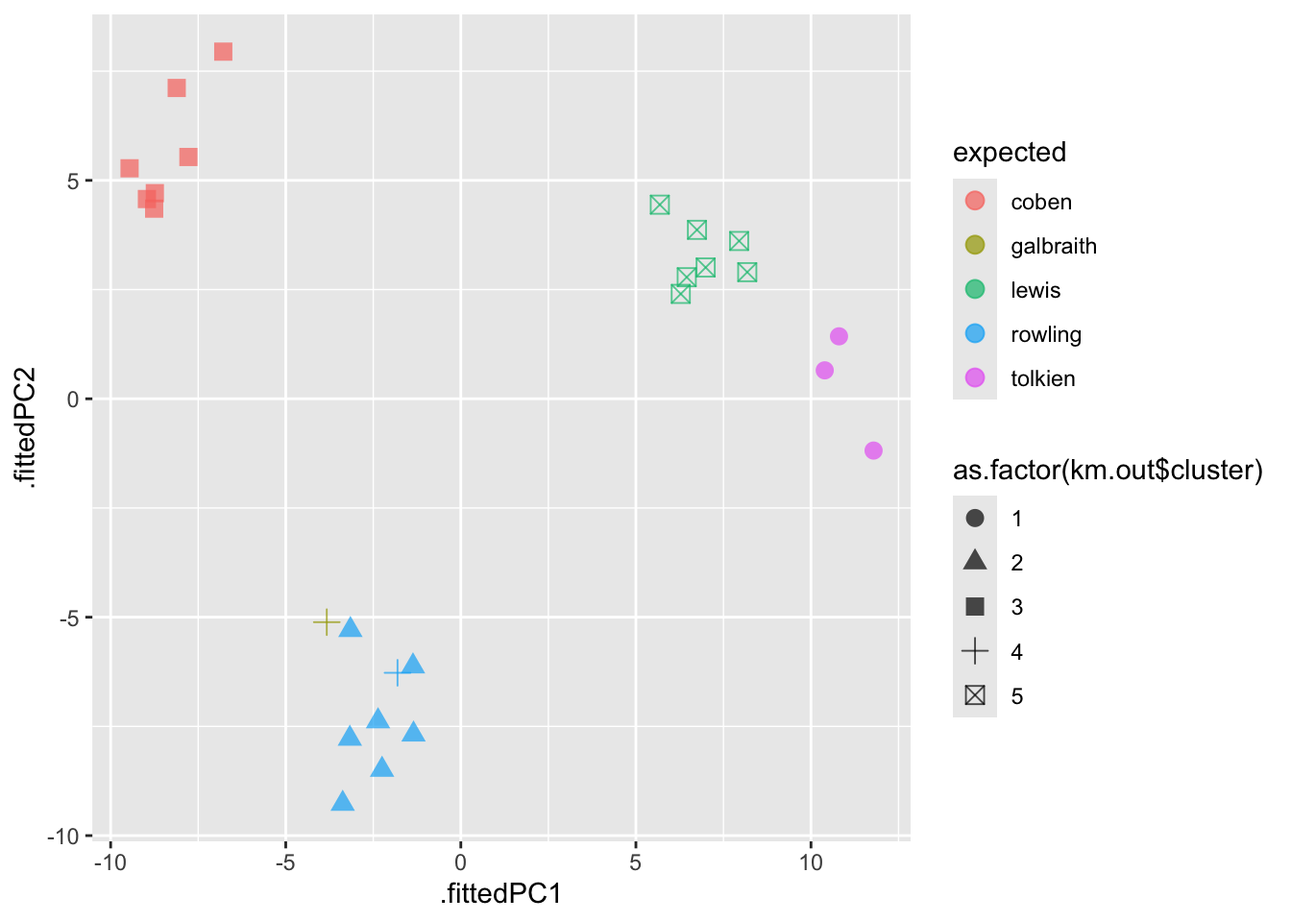
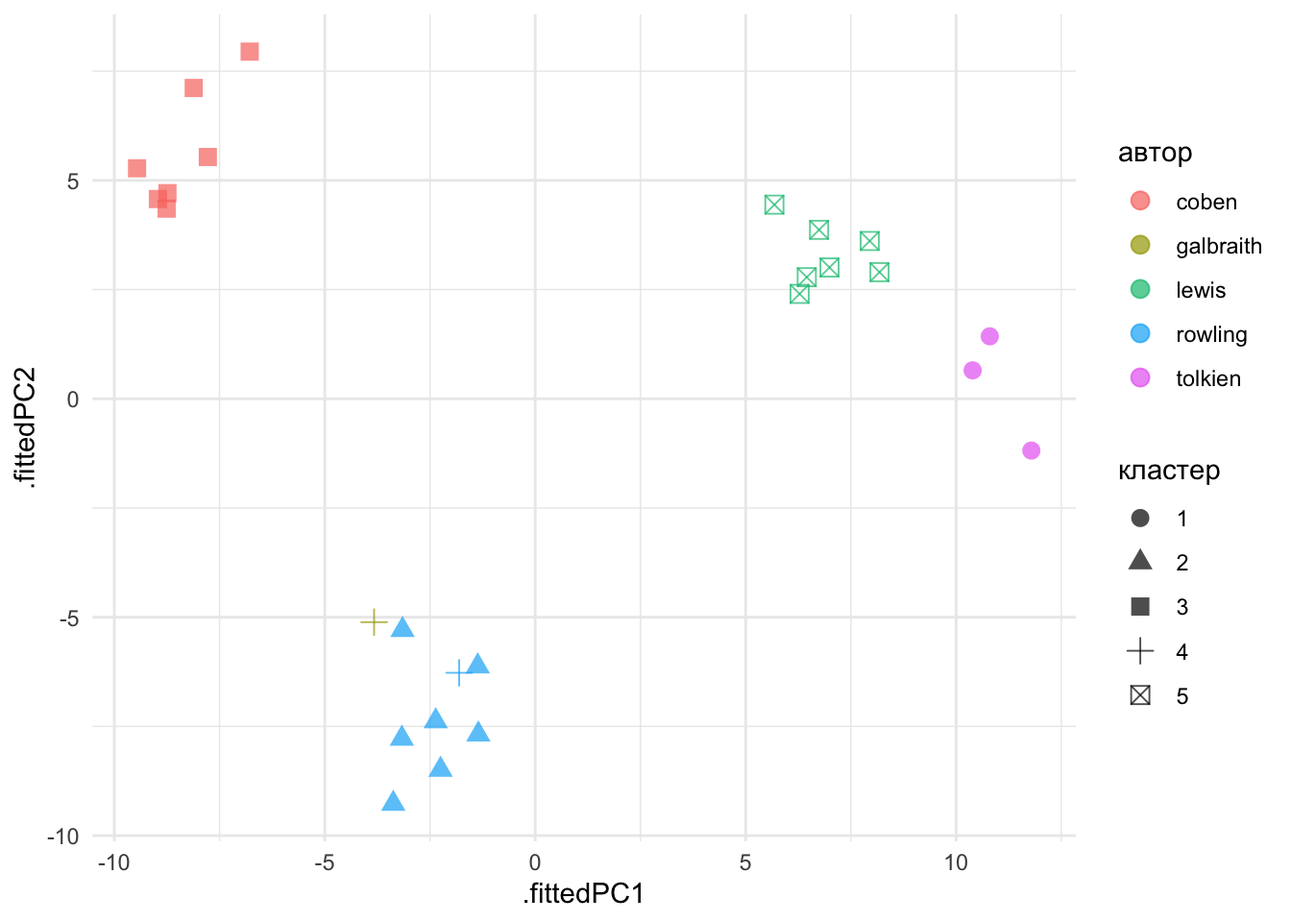
cluster.qmd update (factomineR)

diff --git a/docs/cluster.html b/docs/cluster.html
@@ -230,7 +230,7 @@ window.Quarto = {
         <li class="sidebar-item">
   <div class="sidebar-item-container"> 
   <a href="./share.html" class="sidebar-item-text sidebar-link">
- <span class="menu-text"><span class="chapter-number">6</span>&nbsp; <span class="chapter-title">Публикация</span></span></a>
+ <span class="menu-text"><span class="chapter-number">6</span>&nbsp; <span class="chapter-title">Публикационная система Quarto</span></span></a>
   </div>
 </li>
         <li class="sidebar-item">
@@ -634,7 +634,7 @@ tolkien_lord3        11.787300 -1.185577</code></pre>
 </section>
 <section id="pca-и-кластеры-k-means" class="level3" data-number="15.3.3">
 <h3 data-number="15.3.3" class="anchored" data-anchor-id="pca-и-кластеры-k-means"><span class="header-section-number">15.3.3</span> PCA и кластеры K-means</h3>
-<p>Функция <code>augment()</code> из пакета <code>broom</code> позволяет соединить результат кластеризации (в данном случае – по методу k-средних) с исходными данными.</p>
+<p>Функция <code>augment()</code> из пакета <code>broom</code> позволяет соединить результат анализа с исходными данными.</p>
 <div class="cell">
 <div class="sourceCode cell-code" id="cb19"><pre class="sourceCode r code-with-copy"><code class="sourceCode r"><span id="cb19-1"><a href="#cb19-1" aria-hidden="true" tabindex="-1"></a><span class="fu">library</span>(broom)</span>
 <span id="cb19-2"><a href="#cb19-2" aria-hidden="true" tabindex="-1"></a></span>
@@ -644,7 +644,10 @@ tolkien_lord3        11.787300 -1.185577</code></pre>
 <span id="cb19-6"><a href="#cb19-6" aria-hidden="true" tabindex="-1"></a>  <span class="fu">ggplot</span>(<span class="fu">aes</span>(.fittedPC1, .fittedPC2,</span>
 <span id="cb19-7"><a href="#cb19-7" aria-hidden="true" tabindex="-1"></a>             <span class="at">color =</span> expected, </span>
 <span id="cb19-8"><a href="#cb19-8" aria-hidden="true" tabindex="-1"></a>             <span class="at">shape =</span> <span class="fu">as.factor</span>(km.out<span class="sc">$</span>cluster))) <span class="sc">+</span></span>
-<span id="cb19-9"><a href="#cb19-9" aria-hidden="true" tabindex="-1"></a>  <span class="fu">geom_point</span>(<span class="at">size =</span> <span class="dv">3</span>, <span class="at">alpha =</span> <span class="fl">0.7</span>)</span></code><button title="Скопировать текст" class="code-copy-button"><i class="bi"></i></button></pre></div>
+<span id="cb19-9"><a href="#cb19-9" aria-hidden="true" tabindex="-1"></a>  <span class="fu">geom_point</span>(<span class="at">size =</span> <span class="dv">3</span>, <span class="at">alpha =</span> <span class="fl">0.7</span>) <span class="sc">+</span></span>
+<span id="cb19-10"><a href="#cb19-10" aria-hidden="true" tabindex="-1"></a>  <span class="fu">scale_color_discrete</span>(<span class="at">name =</span> <span class="st">"автор"</span>) <span class="sc">+</span></span>
+<span id="cb19-11"><a href="#cb19-11" aria-hidden="true" tabindex="-1"></a>  <span class="fu">scale_shape_discrete</span>(<span class="at">name =</span> <span class="st">"кластер"</span>) <span class="sc">+</span></span>
+<span id="cb19-12"><a href="#cb19-12" aria-hidden="true" tabindex="-1"></a>  <span class="fu">theme_minimal</span>()</span></code><button title="Скопировать текст" class="code-copy-button"><i class="bi"></i></button></pre></div>
 <div class="cell-output-display">
 <div>
 <figure class="figure">
@@ -653,38 +656,18 @@ tolkien_lord3        11.787300 -1.185577</code></pre>
 </div>
 </div>
 </div>
-<p>В таком же “опрятном” виде можем представить и нагрузки компонент. Для наглядности – только первые 30 слов.</p>
+<p>Еще один способ представить наблюдения.</p>
 <div class="cell">
-<div class="sourceCode cell-code" id="cb20"><pre class="sourceCode r code-with-copy"><code class="sourceCode r"><span id="cb20-1"><a href="#cb20-1" aria-hidden="true" tabindex="-1"></a><span class="fu">library</span>(cowplot)</span></code><button title="Скопировать текст" class="code-copy-button"><i class="bi"></i></button></pre></div>
-<div class="cell-output cell-output-stderr">
-<pre><code>
-Attaching package: 'cowplot'</code></pre>
-</div>
-<div class="cell-output cell-output-stderr">
-<pre><code>The following object is masked from 'package:lubridate':
-
-    stamp</code></pre>
-</div>
-<div class="sourceCode cell-code" id="cb23"><pre class="sourceCode r code-with-copy"><code class="sourceCode r"><span id="cb23-1"><a href="#cb23-1" aria-hidden="true" tabindex="-1"></a><span class="fu">library</span>(grid)</span>
-<span id="cb23-2"><a href="#cb23-2" aria-hidden="true" tabindex="-1"></a></span>
-<span id="cb23-3"><a href="#cb23-3" aria-hidden="true" tabindex="-1"></a><span class="co"># как будет выглядеть стрелка</span></span>
-<span id="cb23-4"><a href="#cb23-4" aria-hidden="true" tabindex="-1"></a>arrow_style <span class="ot">&lt;-</span> <span class="fu">arrow</span>(</span>
-<span id="cb23-5"><a href="#cb23-5" aria-hidden="true" tabindex="-1"></a>  <span class="at">angle =</span> <span class="dv">20</span>, <span class="at">ends =</span> <span class="st">"first"</span>, <span class="at">type =</span> <span class="st">"closed"</span>, <span class="at">length =</span> grid<span class="sc">::</span><span class="fu">unit</span>(<span class="dv">8</span>, <span class="st">"pt"</span>)</span>
-<span id="cb23-6"><a href="#cb23-6" aria-hidden="true" tabindex="-1"></a>)</span>
-<span id="cb23-7"><a href="#cb23-7" aria-hidden="true" tabindex="-1"></a></span>
-<span id="cb23-8"><a href="#cb23-8" aria-hidden="true" tabindex="-1"></a>pca_fit  <span class="sc">|&gt;</span> </span>
-<span id="cb23-9"><a href="#cb23-9" aria-hidden="true" tabindex="-1"></a>  <span class="fu">tidy</span>(<span class="at">matrix =</span> <span class="st">"rotation"</span>)  <span class="sc">|&gt;</span> </span>
-<span id="cb23-10"><a href="#cb23-10" aria-hidden="true" tabindex="-1"></a>  <span class="fu">pivot_wider</span>(<span class="at">names_from =</span> <span class="st">"PC"</span>, <span class="at">names_prefix =</span> <span class="st">"PC"</span>, <span class="at">values_from =</span> <span class="st">"value"</span>)  <span class="sc">|&gt;</span> </span>
-<span id="cb23-11"><a href="#cb23-11" aria-hidden="true" tabindex="-1"></a>  <span class="fu">filter</span>(<span class="fu">row_number</span>() <span class="sc">%in%</span> <span class="fu">c</span>(<span class="dv">1</span><span class="sc">:</span><span class="dv">30</span>)) <span class="sc">|&gt;</span> </span>
-<span id="cb23-12"><a href="#cb23-12" aria-hidden="true" tabindex="-1"></a>  <span class="fu">ggplot</span>(<span class="fu">aes</span>(PC1, PC2)) <span class="sc">+</span></span>
-<span id="cb23-13"><a href="#cb23-13" aria-hidden="true" tabindex="-1"></a>  <span class="fu">geom_segment</span>(<span class="at">xend =</span> <span class="dv">0</span>, <span class="at">yend =</span> <span class="dv">0</span>, <span class="at">arrow =</span> arrow_style, <span class="at">color =</span> <span class="st">"olivedrab"</span>, <span class="at">alpha =</span> <span class="fl">0.5</span>) <span class="sc">+</span></span>
-<span id="cb23-14"><a href="#cb23-14" aria-hidden="true" tabindex="-1"></a>  <span class="fu">geom_text</span>(</span>
-<span id="cb23-15"><a href="#cb23-15" aria-hidden="true" tabindex="-1"></a>    <span class="fu">aes</span>(<span class="at">label =</span> column),</span>
-<span id="cb23-16"><a href="#cb23-16" aria-hidden="true" tabindex="-1"></a>    <span class="at">hjust =</span> <span class="dv">1</span>, <span class="at">nudge_x =</span> <span class="sc">-</span><span class="fl">0.02</span>, </span>
-<span id="cb23-17"><a href="#cb23-17" aria-hidden="true" tabindex="-1"></a>    <span class="at">color =</span> <span class="st">"tomato"</span></span>
-<span id="cb23-18"><a href="#cb23-18" aria-hidden="true" tabindex="-1"></a>  ) <span class="sc">+</span> </span>
-<span id="cb23-19"><a href="#cb23-19" aria-hidden="true" tabindex="-1"></a>  <span class="fu">theme_minimal_grid</span>(<span class="dv">10</span>) <span class="sc">+</span></span>
-<span id="cb23-20"><a href="#cb23-20" aria-hidden="true" tabindex="-1"></a>  <span class="fu">coord_fixed</span>()</span></code><button title="Скопировать текст" class="code-copy-button"><i class="bi"></i></button></pre></div>
+<div class="sourceCode cell-code" id="cb20"><pre class="sourceCode r code-with-copy"><code class="sourceCode r"><span id="cb20-1"><a href="#cb20-1" aria-hidden="true" tabindex="-1"></a><span class="co"># install.packages("FactoMineR")</span></span>
+<span id="cb20-2"><a href="#cb20-2" aria-hidden="true" tabindex="-1"></a><span class="co"># library(devtools)</span></span>
+<span id="cb20-3"><a href="#cb20-3" aria-hidden="true" tabindex="-1"></a><span class="co"># install_github("kassambara/factoextra")</span></span>
+<span id="cb20-4"><a href="#cb20-4" aria-hidden="true" tabindex="-1"></a><span class="fu">library</span>(FactoMineR)</span>
+<span id="cb20-5"><a href="#cb20-5" aria-hidden="true" tabindex="-1"></a><span class="fu">library</span>(factoextra)</span>
+<span id="cb20-6"><a href="#cb20-6" aria-hidden="true" tabindex="-1"></a></span>
+<span id="cb20-7"><a href="#cb20-7" aria-hidden="true" tabindex="-1"></a><span class="fu">fviz_pca_ind</span>(pca_fit, <span class="at">geom =</span> <span class="fu">c</span>(<span class="st">"text"</span>),</span>
+<span id="cb20-8"><a href="#cb20-8" aria-hidden="true" tabindex="-1"></a>             <span class="at">habillage =</span> <span class="fu">as.factor</span>(km.out<span class="sc">$</span>cluster),</span>
+<span id="cb20-9"><a href="#cb20-9" aria-hidden="true" tabindex="-1"></a>             <span class="at">addEllipses =</span> <span class="cn">TRUE</span>) <span class="sc">+</span></span>
+<span id="cb20-10"><a href="#cb20-10" aria-hidden="true" tabindex="-1"></a>  <span class="fu">theme</span>(<span class="at">legend.position =</span> <span class="st">"none"</span>)</span></code><button title="Скопировать текст" class="code-copy-button"><i class="bi"></i></button></pre></div>
 <div class="cell-output-display">
 <div>
 <figure class="figure">
@@ -693,15 +676,49 @@ Attaching package: 'cowplot'</code></pre>
 </div>
 </div>
 </div>
-<p>При интерпретации этого графика следует учитывать, что положительно коррелированные переменные находятся рядом, а отрицательно коррелированные переменные находятся в противоположных квадрантах. Например, для первого измерения “him” и “as” коррелированы отрицательно. Это можно проверить, достав матрицу c нагрузками компонент = из объекта <code>pca_fit</code> (в качестве координат используются коэффициенты корреляции между переменными и компонентами):</p>
+<p>Аналогично можно представить и нагрузки компонент.</p>
 <div class="cell">
-<div class="sourceCode cell-code" id="cb24"><pre class="sourceCode r code-with-copy"><code class="sourceCode r"><span id="cb24-1"><a href="#cb24-1" aria-hidden="true" tabindex="-1"></a>pca_fit<span class="sc">$</span>rotation[<span class="fu">c</span>(<span class="st">"him"</span>, <span class="st">"as"</span>),<span class="dv">1</span><span class="sc">:</span><span class="dv">2</span>]</span></code><button title="Скопировать текст" class="code-copy-button"><i class="bi"></i></button></pre></div>
+<div class="sourceCode cell-code" id="cb21"><pre class="sourceCode r code-with-copy"><code class="sourceCode r"><span id="cb21-1"><a href="#cb21-1" aria-hidden="true" tabindex="-1"></a><span class="fu">fviz_pca_var</span>(pca_fit, <span class="at">col.var=</span><span class="st">"contrib"</span>,</span>
+<span id="cb21-2"><a href="#cb21-2" aria-hidden="true" tabindex="-1"></a>             <span class="at">select.var =</span> <span class="fu">list</span>(<span class="at">contrib =</span> <span class="dv">40</span>),</span>
+<span id="cb21-3"><a href="#cb21-3" aria-hidden="true" tabindex="-1"></a>             <span class="at">repel =</span> <span class="cn">TRUE</span>)<span class="sc">+</span></span>
+<span id="cb21-4"><a href="#cb21-4" aria-hidden="true" tabindex="-1"></a>  <span class="fu">theme_minimal</span>() <span class="sc">+</span></span>
+<span id="cb21-5"><a href="#cb21-5" aria-hidden="true" tabindex="-1"></a>  <span class="fu">theme</span>(<span class="at">legend.position =</span> <span class="st">"none"</span>)</span></code><button title="Скопировать текст" class="code-copy-button"><i class="bi"></i></button></pre></div>
+<div class="cell-output-display">
+<div>
+<figure class="figure">
+<p><img src="cluster_files/figure-html/unnamed-chunk-14-1.png" class="img-fluid figure-img" width="672"></p>
+</figure>
+</div>
+</div>
+</div>
+<p>При интерпретации этого графика следует учитывать, что положительно коррелированные переменные находятся рядом, а отрицательно коррелированные переменные находятся в противоположных квадрантах. Например, для первого измерения “his” и “as” коррелированы отрицательно. Это можно проверить, достав матрицу c нагрузками компонент из объекта <code>pca_fit</code> (в качестве координат используются коэффициенты корреляции между переменными и компонентами):</p>
+<div class="cell">
+<div class="sourceCode cell-code" id="cb22"><pre class="sourceCode r code-with-copy"><code class="sourceCode r"><span id="cb22-1"><a href="#cb22-1" aria-hidden="true" tabindex="-1"></a>pca_fit<span class="sc">$</span>rotation[<span class="fu">c</span>(<span class="st">"his"</span>, <span class="st">"as"</span>),<span class="dv">1</span><span class="sc">:</span><span class="dv">2</span>]</span></code><button title="Скопировать текст" class="code-copy-button"><i class="bi"></i></button></pre></div>
 <div class="cell-output cell-output-stdout">
 <pre><code>            PC1         PC2
-him -0.05204422 -0.10671655
+his -0.04033987 -0.15077917
 as   0.11665675 -0.07410514</code></pre>
 </div>
 </div>
+<p>Теперь - наблюдения и переменные на одном графике.</p>
+<div class="cell">
+<div class="sourceCode cell-code" id="cb24"><pre class="sourceCode r code-with-copy"><code class="sourceCode r"><span id="cb24-1"><a href="#cb24-1" aria-hidden="true" tabindex="-1"></a><span class="fu">fviz_pca_biplot</span>(pca_fit,  <span class="at">geom =</span> <span class="fu">c</span>(<span class="st">"text"</span>),</span>
+<span id="cb24-2"><a href="#cb24-2" aria-hidden="true" tabindex="-1"></a>                <span class="at">select.var =</span> <span class="fu">list</span>(<span class="at">cos2 =</span> <span class="dv">40</span>),</span>
+<span id="cb24-3"><a href="#cb24-3" aria-hidden="true" tabindex="-1"></a>                <span class="at">habillage =</span> <span class="fu">as.factor</span>(km.out<span class="sc">$</span>cluster),</span>
+<span id="cb24-4"><a href="#cb24-4" aria-hidden="true" tabindex="-1"></a>                <span class="at">col.var =</span> <span class="st">"steelblue"</span>,</span>
+<span id="cb24-5"><a href="#cb24-5" aria-hidden="true" tabindex="-1"></a>                <span class="at">alpha.var =</span> <span class="fl">0.3</span>,</span>
+<span id="cb24-6"><a href="#cb24-6" aria-hidden="true" tabindex="-1"></a>                <span class="at">repel =</span> <span class="cn">TRUE</span>,</span>
+<span id="cb24-7"><a href="#cb24-7" aria-hidden="true" tabindex="-1"></a>                <span class="at">ggtheme =</span> <span class="fu">theme_minimal</span>()) <span class="sc">+</span></span>
+<span id="cb24-8"><a href="#cb24-8" aria-hidden="true" tabindex="-1"></a>  <span class="fu">theme</span>(<span class="at">legend.position =</span> <span class="st">"none"</span>)</span></code><button title="Скопировать текст" class="code-copy-button"><i class="bi"></i></button></pre></div>
+<div class="cell-output-display">
+<div>
+<figure class="figure">
+<p><img src="cluster_files/figure-html/unnamed-chunk-16-1.png" class="img-fluid figure-img" width="672"></p>
+</figure>
+</div>
+</div>
+</div>
+<p>Поработать над оформлением такого графика вы сможете в домашнем задании.</p>
 </section>
 </section>
 <section id="иерархическая-кластеризация" class="level2" data-number="15.4">
@@ -734,12 +751,12 @@ as   0.11665675 -0.07410514</code></pre>
 <h3 data-number="15.4.4" class="anchored" data-anchor-id="иерархическая-кластеризация-в-r"><span class="header-section-number">15.4.4</span> Иерархическая кластеризация в R</h3>
 <p>Применим алгоритм к симулированным данным, которые мы создали выше. Функция <code>dist()</code> по умолчанию считает евклидово расстояние.</p>
 <div class="cell">
-<div class="sourceCode cell-code" id="cb26"><pre class="sourceCode r code-with-copy"><code class="sourceCode r"><span id="cb26-1"><a href="#cb26-1" aria-hidden="true" tabindex="-1"></a>hc.complete <span class="ot">&lt;-</span> <span class="fu">hclust</span>(<span class="fu">dist</span>(x), <span class="at">method =</span> <span class="st">"complete"</span>)</span>
-<span id="cb26-2"><a href="#cb26-2" aria-hidden="true" tabindex="-1"></a><span class="fu">plot</span>(hc.complete)</span></code><button title="Скопировать текст" class="code-copy-button"><i class="bi"></i></button></pre></div>
+<div class="sourceCode cell-code" id="cb25"><pre class="sourceCode r code-with-copy"><code class="sourceCode r"><span id="cb25-1"><a href="#cb25-1" aria-hidden="true" tabindex="-1"></a>hc.complete <span class="ot">&lt;-</span> <span class="fu">hclust</span>(<span class="fu">dist</span>(x), <span class="at">method =</span> <span class="st">"complete"</span>)</span>
+<span id="cb25-2"><a href="#cb25-2" aria-hidden="true" tabindex="-1"></a><span class="fu">plot</span>(hc.complete)</span></code><button title="Скопировать текст" class="code-copy-button"><i class="bi"></i></button></pre></div>
 <div class="cell-output-display">
 <div>
 <figure class="figure">
-<p><img src="cluster_files/figure-html/unnamed-chunk-15-1.png" class="img-fluid figure-img" width="672"></p>
+<p><img src="cluster_files/figure-html/unnamed-chunk-17-1.png" class="img-fluid figure-img" width="672"></p>
 </figure>
 </div>
 </div>
@@ -750,30 +767,30 @@ as   0.11665675 -0.07410514</code></pre>
 <h3 data-number="15.4.5" class="anchored" data-anchor-id="иерархическая-кластеризация-текстов"><span class="header-section-number">15.4.5</span> Иерархическая кластеризация текстов</h3>
 <p>Для вычисления расстояния между текстами лучше подойдет не евклидово, а косинусное расстояние на нормализованных данных. В базовой <code>dist()</code> его нет, поэтому воспользуемся пакетом <code>philentropy</code>.</p>
 <div class="cell">
-<div class="sourceCode cell-code" id="cb27"><pre class="sourceCode r code-with-copy"><code class="sourceCode r"><span id="cb27-1"><a href="#cb27-1" aria-hidden="true" tabindex="-1"></a>dist_mx <span class="ot">&lt;-</span> galbraith  <span class="sc">|&gt;</span> </span>
-<span id="cb27-2"><a href="#cb27-2" aria-hidden="true" tabindex="-1"></a>  <span class="fu">scale</span>() <span class="sc">|&gt;</span> </span>
-<span id="cb27-3"><a href="#cb27-3" aria-hidden="true" tabindex="-1"></a>  philentropy<span class="sc">::</span><span class="fu">distance</span>(<span class="at">method =</span> <span class="st">"cosine"</span>, <span class="at">use.row.names =</span> T) </span></code><button title="Скопировать текст" class="code-copy-button"><i class="bi"></i></button></pre></div>
+<div class="sourceCode cell-code" id="cb26"><pre class="sourceCode r code-with-copy"><code class="sourceCode r"><span id="cb26-1"><a href="#cb26-1" aria-hidden="true" tabindex="-1"></a>dist_mx <span class="ot">&lt;-</span> galbraith  <span class="sc">|&gt;</span> </span>
+<span id="cb26-2"><a href="#cb26-2" aria-hidden="true" tabindex="-1"></a>  <span class="fu">scale</span>() <span class="sc">|&gt;</span> </span>
+<span id="cb26-3"><a href="#cb26-3" aria-hidden="true" tabindex="-1"></a>  philentropy<span class="sc">::</span><span class="fu">distance</span>(<span class="at">method =</span> <span class="st">"cosine"</span>, <span class="at">use.row.names =</span> T) </span></code><button title="Скопировать текст" class="code-copy-button"><i class="bi"></i></button></pre></div>
 <div class="cell-output cell-output-stderr">
 <pre><code>Metric: 'cosine'; comparing: 26 vectors.</code></pre>
 </div>
 </div>
 <p>Преобразуем меру сходства в меру расстояния и передадим на кластеризацию.</p>
 <div class="cell">
-<div class="sourceCode cell-code" id="cb29"><pre class="sourceCode r code-with-copy"><code class="sourceCode r"><span id="cb29-1"><a href="#cb29-1" aria-hidden="true" tabindex="-1"></a>dist_mx <span class="ot">&lt;-</span> <span class="fu">as.dist</span>(<span class="dv">1</span> <span class="sc">-</span> dist_mx)</span>
-<span id="cb29-2"><a href="#cb29-2" aria-hidden="true" tabindex="-1"></a>hc <span class="ot">&lt;-</span> <span class="fu">hclust</span>(dist_mx)</span>
-<span id="cb29-3"><a href="#cb29-3" aria-hidden="true" tabindex="-1"></a></span>
-<span id="cb29-4"><a href="#cb29-4" aria-hidden="true" tabindex="-1"></a><span class="fu">plot</span>(hc)</span></code><button title="Скопировать текст" class="code-copy-button"><i class="bi"></i></button></pre></div>
+<div class="sourceCode cell-code" id="cb28"><pre class="sourceCode r code-with-copy"><code class="sourceCode r"><span id="cb28-1"><a href="#cb28-1" aria-hidden="true" tabindex="-1"></a>dist_mx <span class="ot">&lt;-</span> <span class="fu">as.dist</span>(<span class="dv">1</span> <span class="sc">-</span> dist_mx)</span>
+<span id="cb28-2"><a href="#cb28-2" aria-hidden="true" tabindex="-1"></a>hc <span class="ot">&lt;-</span> <span class="fu">hclust</span>(dist_mx)</span>
+<span id="cb28-3"><a href="#cb28-3" aria-hidden="true" tabindex="-1"></a></span>
+<span id="cb28-4"><a href="#cb28-4" aria-hidden="true" tabindex="-1"></a><span class="fu">plot</span>(hc)</span></code><button title="Скопировать текст" class="code-copy-button"><i class="bi"></i></button></pre></div>
 <div class="cell-output-display">
 <div>
 <figure class="figure">
-<p><img src="cluster_files/figure-html/unnamed-chunk-17-1.png" class="img-fluid figure-img" width="672"></p>
+<p><img src="cluster_files/figure-html/unnamed-chunk-19-1.png" class="img-fluid figure-img" width="672"></p>
 </figure>
 </div>
 </div>
 </div>
 <p>Для получения меток кластеров, возникающих в результате рассечения дендрограммы на той или иной высоте, можно воспользоваться функцией <code>cutree()</code>.</p>
 <div class="cell">
-<div class="sourceCode cell-code" id="cb30"><pre class="sourceCode r code-with-copy"><code class="sourceCode r"><span id="cb30-1"><a href="#cb30-1" aria-hidden="true" tabindex="-1"></a><span class="fu">cutree</span>(hc, <span class="dv">5</span>)</span></code><button title="Скопировать текст" class="code-copy-button"><i class="bi"></i></button></pre></div>
+<div class="sourceCode cell-code" id="cb29"><pre class="sourceCode r code-with-copy"><code class="sourceCode r"><span id="cb29-1"><a href="#cb29-1" aria-hidden="true" tabindex="-1"></a><span class="fu">cutree</span>(hc, <span class="dv">5</span>)</span></code><button title="Скопировать текст" class="code-copy-button"><i class="bi"></i></button></pre></div>
 <div class="cell-output cell-output-stdout">
 <pre><code>       coben_breaker       coben_dropshot       coben_fadeaway 
                    1                    1                    1 
@@ -797,18 +814,18 @@ as   0.11665675 -0.07410514</code></pre>
 </div>
 <p>Этим меткам можно назначить свой цвет.</p>
 <div class="cell">
-<div class="sourceCode cell-code" id="cb32"><pre class="sourceCode r code-with-copy"><code class="sourceCode r"><span id="cb32-1"><a href="#cb32-1" aria-hidden="true" tabindex="-1"></a><span class="fu">library</span>(dendextend)</span>
-<span id="cb32-2"><a href="#cb32-2" aria-hidden="true" tabindex="-1"></a>hcd <span class="ot">&lt;-</span> <span class="fu">as.dendrogram</span>(hc)</span>
-<span id="cb32-3"><a href="#cb32-3" aria-hidden="true" tabindex="-1"></a><span class="fu">par</span>(<span class="at">mar=</span><span class="fu">c</span>(<span class="dv">2</span>,<span class="dv">2</span>,<span class="dv">2</span>,<span class="dv">7</span>))</span>
-<span id="cb32-4"><a href="#cb32-4" aria-hidden="true" tabindex="-1"></a>hcd <span class="sc">|&gt;</span> </span>
-<span id="cb32-5"><a href="#cb32-5" aria-hidden="true" tabindex="-1"></a>  <span class="fu">set</span>(<span class="st">"branches_k_color"</span>, <span class="at">k =</span> <span class="dv">5</span>) <span class="sc">|&gt;</span> </span>
-<span id="cb32-6"><a href="#cb32-6" aria-hidden="true" tabindex="-1"></a>  <span class="fu">set</span>(<span class="st">"labels_col"</span>, <span class="at">k=</span><span class="dv">5</span>) <span class="sc">|&gt;</span> </span>
-<span id="cb32-7"><a href="#cb32-7" aria-hidden="true" tabindex="-1"></a>  <span class="fu">plot</span>(<span class="at">horiz =</span> <span class="cn">TRUE</span>)</span>
-<span id="cb32-8"><a href="#cb32-8" aria-hidden="true" tabindex="-1"></a><span class="fu">abline</span>(<span class="at">v=</span><span class="fl">0.8</span>, <span class="at">col=</span><span class="st">"pink4"</span>,<span class="at">lty=</span><span class="dv">2</span>)</span></code><button title="Скопировать текст" class="code-copy-button"><i class="bi"></i></button></pre></div>
+<div class="sourceCode cell-code" id="cb31"><pre class="sourceCode r code-with-copy"><code class="sourceCode r"><span id="cb31-1"><a href="#cb31-1" aria-hidden="true" tabindex="-1"></a><span class="fu">library</span>(dendextend)</span>
+<span id="cb31-2"><a href="#cb31-2" aria-hidden="true" tabindex="-1"></a>hcd <span class="ot">&lt;-</span> <span class="fu">as.dendrogram</span>(hc)</span>
+<span id="cb31-3"><a href="#cb31-3" aria-hidden="true" tabindex="-1"></a><span class="fu">par</span>(<span class="at">mar=</span><span class="fu">c</span>(<span class="dv">2</span>,<span class="dv">2</span>,<span class="dv">2</span>,<span class="dv">7</span>))</span>
+<span id="cb31-4"><a href="#cb31-4" aria-hidden="true" tabindex="-1"></a>hcd <span class="sc">|&gt;</span> </span>
+<span id="cb31-5"><a href="#cb31-5" aria-hidden="true" tabindex="-1"></a>  <span class="fu">set</span>(<span class="st">"branches_k_color"</span>, <span class="at">k =</span> <span class="dv">5</span>) <span class="sc">|&gt;</span> </span>
+<span id="cb31-6"><a href="#cb31-6" aria-hidden="true" tabindex="-1"></a>  <span class="fu">set</span>(<span class="st">"labels_col"</span>, <span class="at">k=</span><span class="dv">5</span>) <span class="sc">|&gt;</span> </span>
+<span id="cb31-7"><a href="#cb31-7" aria-hidden="true" tabindex="-1"></a>  <span class="fu">plot</span>(<span class="at">horiz =</span> <span class="cn">TRUE</span>)</span>
+<span id="cb31-8"><a href="#cb31-8" aria-hidden="true" tabindex="-1"></a><span class="fu">abline</span>(<span class="at">v=</span><span class="fl">0.8</span>, <span class="at">col=</span><span class="st">"pink4"</span>,<span class="at">lty=</span><span class="dv">2</span>)</span></code><button title="Скопировать текст" class="code-copy-button"><i class="bi"></i></button></pre></div>
 <div class="cell-output-display">
 <div>
 <figure class="figure">
-<p><img src="cluster_files/figure-html/unnamed-chunk-19-1.png" class="img-fluid figure-img" width="672"></p>
+<p><img src="cluster_files/figure-html/unnamed-chunk-21-1.png" class="img-fluid figure-img" width="672"></p>
 </figure>
 </div>
 </div>
@@ -818,15 +835,15 @@ as   0.11665675 -0.07410514</code></pre>
 <h3 data-number="15.4.6" class="anchored" data-anchor-id="pca-и-иерархическая-кластеризация"><span class="header-section-number">15.4.6</span> PCA и иерархическая кластеризация</h3>
 <p>Код почти как выше, но надо указать, на сколько кластеров мы разрезаем дерево.</p>
 <div class="cell">
-<div class="sourceCode cell-code" id="cb33"><pre class="sourceCode r code-with-copy"><code class="sourceCode r"><span id="cb33-1"><a href="#cb33-1" aria-hidden="true" tabindex="-1"></a>pca_fit <span class="sc">%&gt;%</span></span>
-<span id="cb33-2"><a href="#cb33-2" aria-hidden="true" tabindex="-1"></a>  <span class="fu">augment</span>(galbraith) <span class="sc">%&gt;%</span> </span>
-<span id="cb33-3"><a href="#cb33-3" aria-hidden="true" tabindex="-1"></a>  <span class="fu">ggplot</span>(<span class="fu">aes</span>(.fittedPC1, .fittedPC2, </span>
-<span id="cb33-4"><a href="#cb33-4" aria-hidden="true" tabindex="-1"></a>             <span class="at">color =</span> expected, <span class="at">shape =</span> <span class="fu">as.factor</span>(<span class="fu">cutree</span>(hc, <span class="dv">5</span>)))) <span class="sc">+</span></span>
-<span id="cb33-5"><a href="#cb33-5" aria-hidden="true" tabindex="-1"></a>  <span class="fu">geom_point</span>(<span class="at">size =</span> <span class="dv">3</span>, <span class="at">alpha =</span> <span class="fl">0.7</span>)</span></code><button title="Скопировать текст" class="code-copy-button"><i class="bi"></i></button></pre></div>
+<div class="sourceCode cell-code" id="cb32"><pre class="sourceCode r code-with-copy"><code class="sourceCode r"><span id="cb32-1"><a href="#cb32-1" aria-hidden="true" tabindex="-1"></a>pca_fit <span class="sc">%&gt;%</span></span>
+<span id="cb32-2"><a href="#cb32-2" aria-hidden="true" tabindex="-1"></a>  <span class="fu">augment</span>(galbraith) <span class="sc">%&gt;%</span> </span>
+<span id="cb32-3"><a href="#cb32-3" aria-hidden="true" tabindex="-1"></a>  <span class="fu">ggplot</span>(<span class="fu">aes</span>(.fittedPC1, .fittedPC2, </span>
+<span id="cb32-4"><a href="#cb32-4" aria-hidden="true" tabindex="-1"></a>             <span class="at">color =</span> expected, <span class="at">shape =</span> <span class="fu">as.factor</span>(<span class="fu">cutree</span>(hc, <span class="dv">5</span>)))) <span class="sc">+</span></span>
+<span id="cb32-5"><a href="#cb32-5" aria-hidden="true" tabindex="-1"></a>  <span class="fu">geom_point</span>(<span class="at">size =</span> <span class="dv">3</span>, <span class="at">alpha =</span> <span class="fl">0.7</span>)</span></code><button title="Скопировать текст" class="code-copy-button"><i class="bi"></i></button></pre></div>
 <div class="cell-output-display">
 <div>
 <figure class="figure">
-<p><img src="cluster_files/figure-html/unnamed-chunk-20-1.png" class="img-fluid figure-img" width="672"></p>
+<p><img src="cluster_files/figure-html/unnamed-chunk-22-1.png" class="img-fluid figure-img" width="672"></p>
 </figure>
 </div>
 </div>
@@ -837,10 +854,10 @@ as   0.11665675 -0.07410514</code></pre>
 <h2 data-number="15.5" class="anchored" data-anchor-id="многомерное-шкалирование"><span class="header-section-number">15.5</span> Многомерное шкалирование</h2>
 <p>Кроме этого, для визуализации многомерных данных применяют многомерное шкалирование (cmd = classical multidimensional scaling). Функция получает на входе матрицу расстояний.</p>
 <div class="cell">
-<div class="sourceCode cell-code" id="cb34"><pre class="sourceCode r code-with-copy"><code class="sourceCode r"><span id="cb34-1"><a href="#cb34-1" aria-hidden="true" tabindex="-1"></a>cmd_fit <span class="ot">&lt;-</span> <span class="fu">cmdscale</span>(dist_mx)  <span class="sc">|&gt;</span> </span>
-<span id="cb34-2"><a href="#cb34-2" aria-hidden="true" tabindex="-1"></a>  <span class="fu">as_tibble</span>()</span>
-<span id="cb34-3"><a href="#cb34-3" aria-hidden="true" tabindex="-1"></a></span>
-<span id="cb34-4"><a href="#cb34-4" aria-hidden="true" tabindex="-1"></a>cmd_fit</span></code><button title="Скопировать текст" class="code-copy-button"><i class="bi"></i></button></pre></div>
+<div class="sourceCode cell-code" id="cb33"><pre class="sourceCode r code-with-copy"><code class="sourceCode r"><span id="cb33-1"><a href="#cb33-1" aria-hidden="true" tabindex="-1"></a>cmd_fit <span class="ot">&lt;-</span> <span class="fu">cmdscale</span>(dist_mx)  <span class="sc">|&gt;</span> </span>
+<span id="cb33-2"><a href="#cb33-2" aria-hidden="true" tabindex="-1"></a>  <span class="fu">as_tibble</span>()</span>
+<span id="cb33-3"><a href="#cb33-3" aria-hidden="true" tabindex="-1"></a></span>
+<span id="cb33-4"><a href="#cb33-4" aria-hidden="true" tabindex="-1"></a>cmd_fit</span></code><button title="Скопировать текст" class="code-copy-button"><i class="bi"></i></button></pre></div>
 <div class="cell-output-display">
 <div data-pagedtable="false">
   <script data-pagedtable-source="" type="application/json">
@@ -850,15 +867,15 @@ as   0.11665675 -0.07410514</code></pre>
 </div>
 </div>
 <div class="cell">
-<div class="sourceCode cell-code" id="cb35"><pre class="sourceCode r code-with-copy"><code class="sourceCode r"><span id="cb35-1"><a href="#cb35-1" aria-hidden="true" tabindex="-1"></a>cmd_fit  <span class="sc">|&gt;</span> </span>
-<span id="cb35-2"><a href="#cb35-2" aria-hidden="true" tabindex="-1"></a>  <span class="fu">ggplot</span>(<span class="fu">aes</span>(V1, V2, </span>
-<span id="cb35-3"><a href="#cb35-3" aria-hidden="true" tabindex="-1"></a>             <span class="at">color =</span> expected, </span>
-<span id="cb35-4"><a href="#cb35-4" aria-hidden="true" tabindex="-1"></a>             <span class="at">shape =</span> <span class="fu">as.factor</span>(<span class="fu">cutree</span>(hc, <span class="dv">5</span>)))) <span class="sc">+</span></span>
-<span id="cb35-5"><a href="#cb35-5" aria-hidden="true" tabindex="-1"></a>  <span class="fu">geom_point</span>(<span class="at">size =</span> <span class="dv">3</span>, <span class="at">alpha =</span> <span class="fl">0.7</span>)</span></code><button title="Скопировать текст" class="code-copy-button"><i class="bi"></i></button></pre></div>
+<div class="sourceCode cell-code" id="cb34"><pre class="sourceCode r code-with-copy"><code class="sourceCode r"><span id="cb34-1"><a href="#cb34-1" aria-hidden="true" tabindex="-1"></a>cmd_fit  <span class="sc">|&gt;</span> </span>
+<span id="cb34-2"><a href="#cb34-2" aria-hidden="true" tabindex="-1"></a>  <span class="fu">ggplot</span>(<span class="fu">aes</span>(V1, V2, </span>
+<span id="cb34-3"><a href="#cb34-3" aria-hidden="true" tabindex="-1"></a>             <span class="at">color =</span> expected, </span>
+<span id="cb34-4"><a href="#cb34-4" aria-hidden="true" tabindex="-1"></a>             <span class="at">shape =</span> <span class="fu">as.factor</span>(<span class="fu">cutree</span>(hc, <span class="dv">5</span>)))) <span class="sc">+</span></span>
+<span id="cb34-5"><a href="#cb34-5" aria-hidden="true" tabindex="-1"></a>  <span class="fu">geom_point</span>(<span class="at">size =</span> <span class="dv">3</span>, <span class="at">alpha =</span> <span class="fl">0.7</span>)</span></code><button title="Скопировать текст" class="code-copy-button"><i class="bi"></i></button></pre></div>
 <div class="cell-output-display">
 <div>
 <figure class="figure">
-<p><img src="cluster_files/figure-html/unnamed-chunk-22-1.png" class="img-fluid figure-img" width="672"></p>
+<p><img src="cluster_files/figure-html/unnamed-chunk-24-1.png" class="img-fluid figure-img" width="672"></p>
 </figure>
 </div>
 </div>
